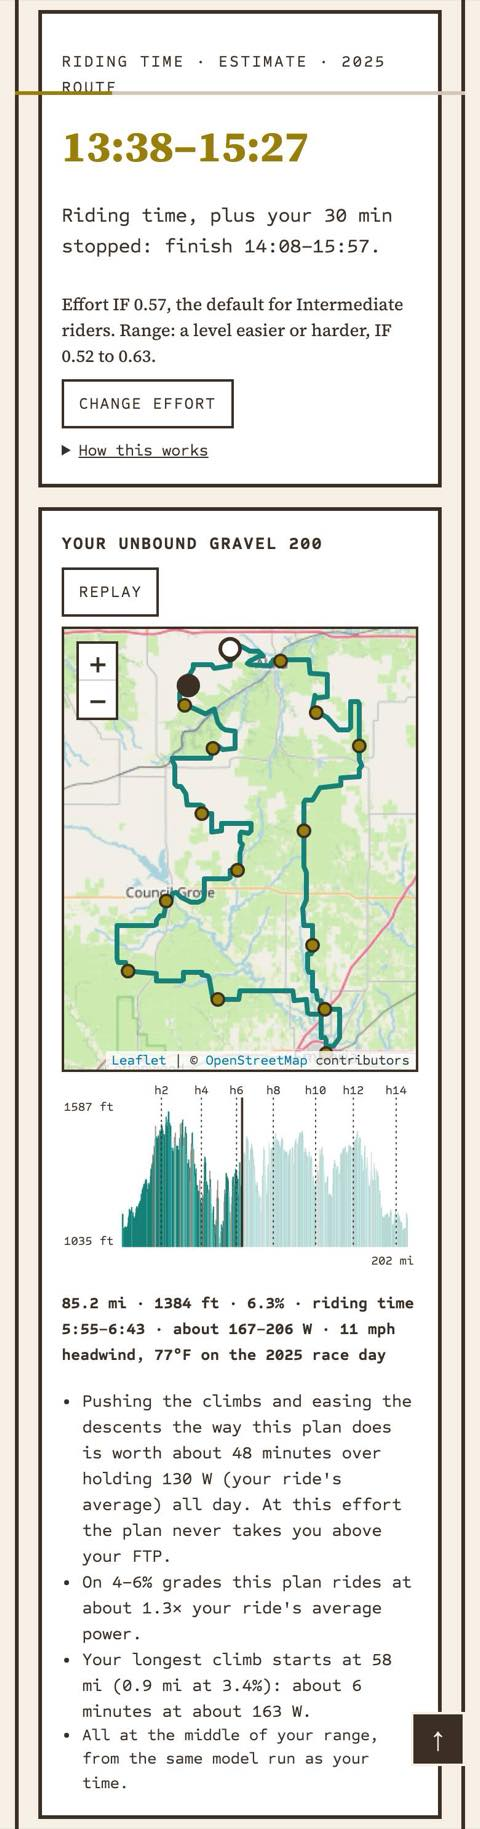
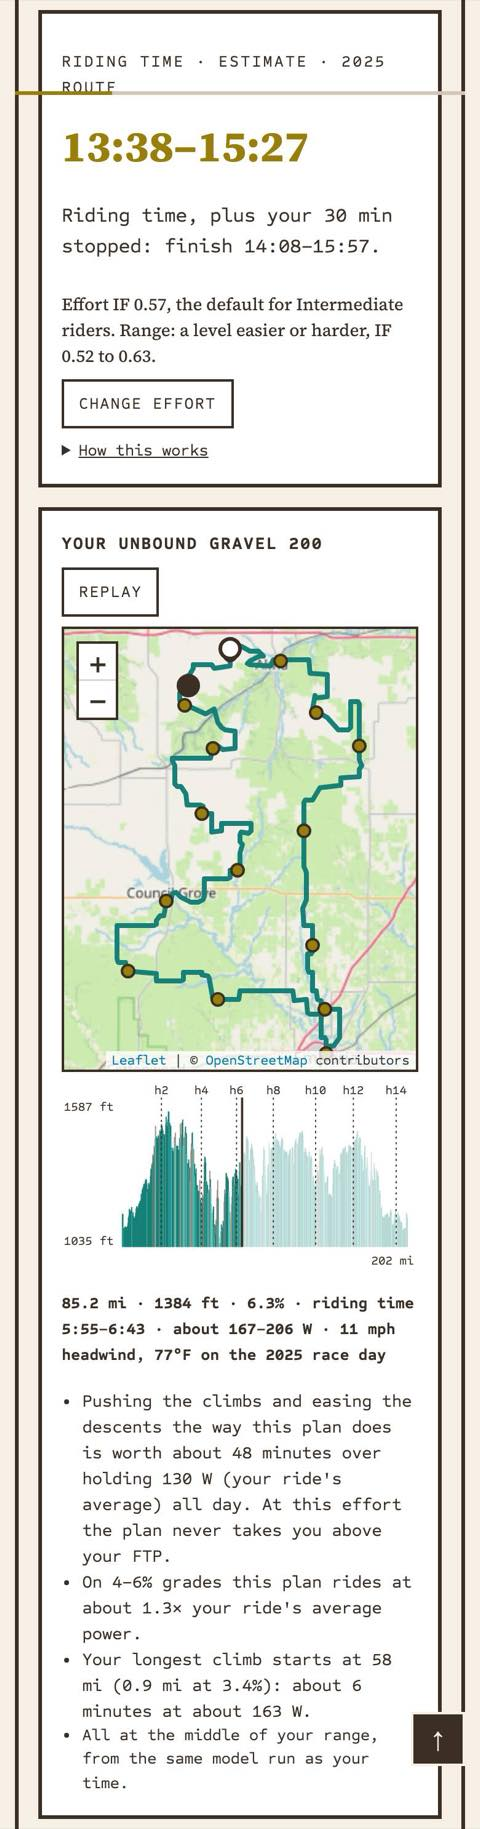
planner map: no tile seams at fractional zoom
Cause: Leaflet 1.9.4's own stylesheet sets mix-blend-mode: plus-lighter on
tiles (its fix for issue 3575). The semi-transparent edge pixels of
neighbouring tiles add up into bright lines at the fitted fractional zoom;
overlapping tiles under that blend made the lines brighter still.

Fix: each tile is drawn 1 px wider and taller than its grid cell (a
TileLayer subclass for this map only), and tiles blend normally, so a
neighbour simply covers the overlap. The earlier extra blend rule is gone.

Measured with a seam detector (pixel columns/rows clearly brighter than
both neighbours along most of the map, overlays hidden): 0 seams on all 11
planner pages at 1280 and 390 px, device pixel ratio 1 and 2, at the
fitted zoom and after one zoom-in (44 views). Before: seams on every
desktop view, up to 38 levels brighter; with the overlap alone, up to 62.

diff --git a/wordpress/planner/gg-planner.js b/wordpress/planner/gg-planner.js
@@ -386,7 +386,17 @@
         // map is shown (never the route over holes). Once that view is in,
         // tiles that fail while the visitor pans or zooms are left as Leaflet
         // shows them.
-        var tiles = L.tileLayer(M.tiles, { attribution: M.attribution, maxZoom: M.max_zoom }), firstView = true;
+        // Each tile is drawn 1 px wider and taller than its grid cell, so at
+        // fractional zoom neighbouring tiles overlap instead of leaving a
+        // hairline gap (Leaflet issue 3575).
+        var OverlapTiles = L.TileLayer.extend({
+          _initTile: function (tile) {
+            L.TileLayer.prototype._initTile.call(this, tile);
+            var ts = this.getTileSize();
+            tile.style.width = ts.x + 1 + "px"; tile.style.height = ts.y + 1 + "px";
+          }
+        });
+        var tiles = new OverlapTiles(M.tiles, { attribution: M.attribution, maxZoom: M.max_zoom }), firstView = true;
         tiles.on("tileerror", function () { if (firstView) { firstView = false; noMap("some of the map tiles did not load"); } });
         tiles.on("load", function () { firstView = false; });
         tiles.addTo(map);

diff --git a/wordpress/race_planner.py b/wordpress/race_planner.py
@@ -456,10 +456,9 @@ def get_race_planner_css() -> str:
 {p}-basemap .leaflet-bar {{ border: 2px solid var(--gg-color-dark-brown); }}
 {p}-basemap .leaflet-bar a {{ color: var(--gg-color-dark-brown); }}
 {p}-basemap .leaflet-control-attribution {{ font-size: 11px; }}
-/* Fractional zoom leaves hairline gaps between tiles in Chromium; blending the tiles with each other
-   inside an isolated pane (not with the background) closes them (Leaflet issue 3575). */
-{p}-basemap .leaflet-tile-pane {{ isolation: isolate; }}
-{p}-basemap img.leaflet-tile {{ mix-blend-mode: plus-lighter; }}
+/* Tiles are drawn 1 px larger so neighbours overlap at fractional zoom (gg-planner.js). Leaflet 1.9's own
+   plus-lighter blend on tiles would add the overlapping pixels into a bright line, so tiles blend normally. */
+{p}-basemap img.leaflet-tile {{ mix-blend-mode: normal; }}
 {p}-profile {{ width: 100%; height: auto; display: block; }}
 {p}-route {{ fill: none; stroke: var(--gg-color-teal); stroke-width: 4; stroke-linejoin: round; }}
 {p}-prof {{ fill: var(--gg-color-tan); stroke: var(--gg-color-dark-brown); stroke-width: 1; }}

diff --git a/tests/test_race_planner.py b/tests/test_race_planner.py
@@ -537,3 +537,15 @@ def test_map_respects_reduced_motion_and_rejects_a_partial_first_view():
     assert "animate: false" in js.split("map.panBy = function", 1)[1].split("};", 1)[0]
     assert 'tiles.on("tileerror", function () { if (firstView)' in js
 
+
+def test_tiles_overlap_by_a_pixel_with_normal_blending():
+    """Fractional zoom: each tile is drawn 1 px larger so neighbours overlap,
+    and Leaflet 1.9's plus-lighter tile blend is turned off (it would add the
+    overlapping pixels into a bright line)."""
+    js = (PLANNER_JS / "gg-planner.js").read_text()
+    assert "L.TileLayer.extend({" in js and 'tile.style.width = ts.x + 1 + "px"; tile.style.height = ts.y + 1 + "px";' in js
+    from race_planner import get_race_planner_css
+    css = get_race_planner_css()
+    assert "img.leaflet-tile { mix-blend-mode: normal; }" in css
+    assert "plus-lighter;" not in css
+

diff --git a/tests/test_race_planner_browser.py b/tests/test_race_planner_browser.py
@@ -170,6 +170,7 @@ window.__leaflet = { maps: [], opts: null, tileHandlers: {} };
   window.L = {
     map: function (b, o) { return new Map(b, o); },
     tileLayer: function () { var t = new Layer(); window.__leaflet.tiles = t; return t; },
+    TileLayer: { extend: function () { return function () { var t = new Layer(); window.__leaflet.tiles = t; return t; }; }, prototype: {} },
     polyline: function () { return new Layer(); },
     circleMarker: function () { return new Layer(); },
     extend: function (dest) { for (var i = 1; i < arguments.length; i++) { var src = arguments[i]; for (var k in src) dest[k] = src[k]; } return dest; },
